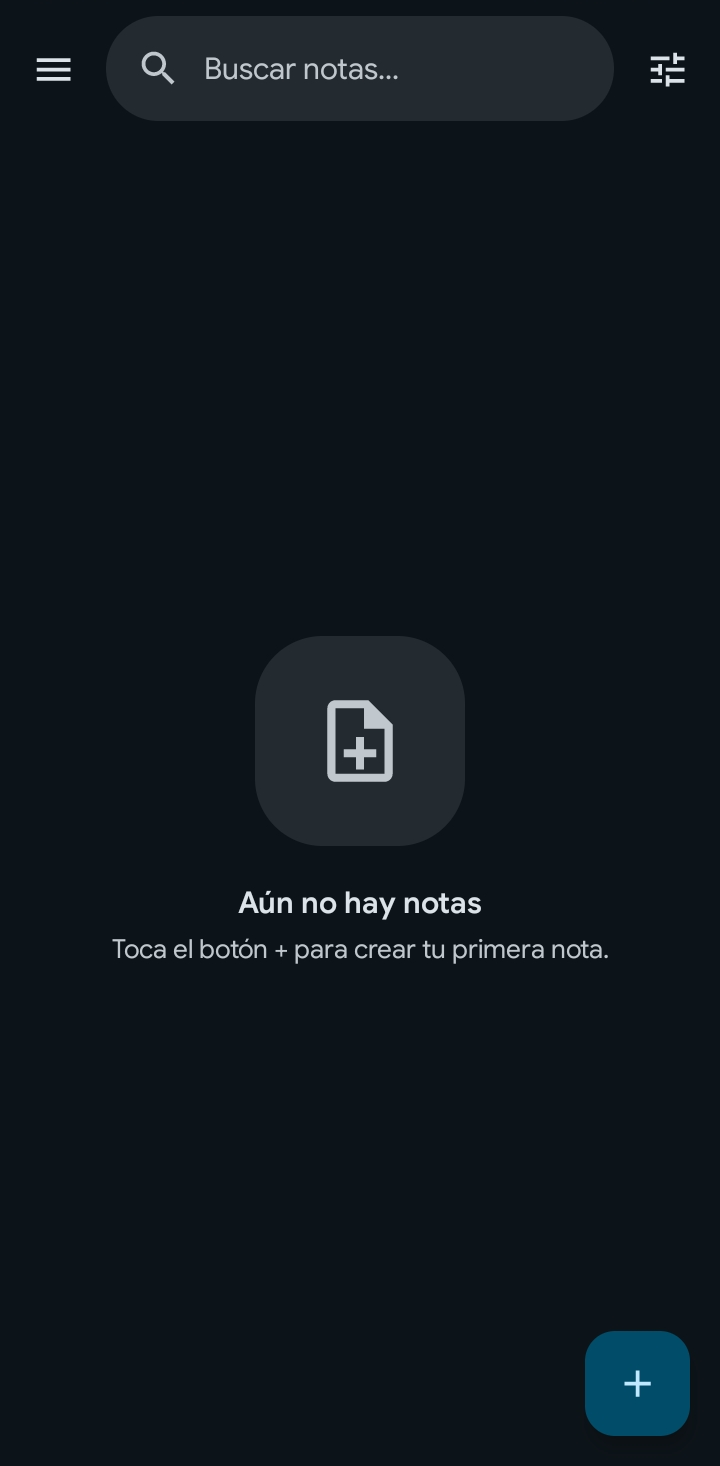
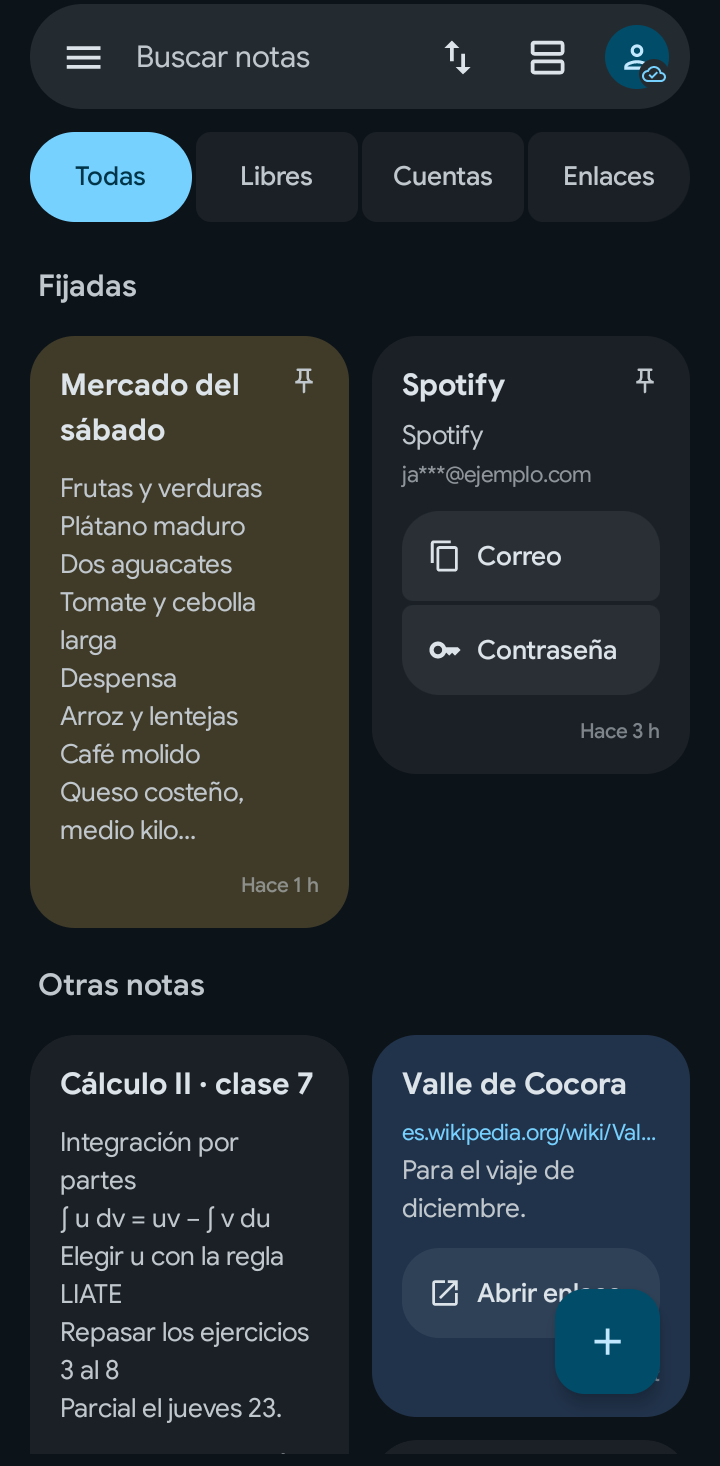
docs: add v2.0.0 changelog

diff --git a/CHANGELOG.md b/CHANGELOG.md
@@ -5,6 +5,57 @@ Todas las novedades importantes de este proyecto se documentan en este archivo.
 El formato se basa en [Keep a Changelog](https://keepachangelog.com/es-ES/1.1.0/),
 y este proyecto sigue el [Versionado Semántico](https://semver.org/lang/es/).
 
+## [2.0.0] - 2026-10-10
+
+### Añadido
+
+- **Sincronización con Google Drive entre teléfonos**: «Sincronizar ahora» trae lo que subió otro teléfono y sube tus cambios. De cada nota se queda la versión más reciente, así que dos teléfonos ya no se borran lo que subió el otro.
+- **La sincronización automática sigue funcionando con la app cerrada**: trae lo nuevo al abrir Notar y sube tus cambios unos segundos después de cada uno. Sin conexión, espera a que vuelva. La clave de cifrado se pide una sola vez.
+- **Pantalla Copia cifrada**, con la sincronización, la clave y la cuenta en un solo sitio. Ajustes muestra solo el estado de la copia.
+- **«¿Olvidaste tu clave?»**: elimina la copia que ya nadie puede abrir y te deja empezar con una clave nueva.
+- Las notas ocultas y el orden personalizado se guardan en la copia y se recuperan al entrar en otro teléfono.
+- «Seleccionar todo» en el modo selección.
+- Sin notas, Inicio ofrece crear la primera de cada tipo.
+
+### Cambiado
+
+- **Cerrar sesión funciona como en Keep**: las notas que ya están en tu copia de Drive se quitan del teléfono y vuelven al entrar con la misma cuenta y tu clave. Las que no se han subido se quedan.
+- **Rediseño con Material 3 Expressive** de todas las pantallas:
+  - **Inicio:** una sola barra con búsqueda, orden, vista y cuenta, filtros por tipo en botones y tarjetas rellenas.
+  - **Notas:** las de cuenta y enlace se editan en su sitio, con un botón de copiar por dato.
+  - **Modo selección:** sus acciones van en una barra flotante abajo.
+  - **Ayuda:** las preguntas se abren en su sitio.
+- **Cambiar la clave pide primero la actual** y vuelve a cifrar la copia con la nueva. Antes la copia anterior seguía con la clave vieja.
+- La clave de cifrado queda guardada en el teléfono sin pedir la huella en cada copia, para que la sincronización funcione con la app cerrada. Si ya tenías una guardada, se pide la huella una última vez.
+- Mostrar la contraseña de una cuenta pide la huella cuando «Huella para cuentas» está activado.
+- Al cambiar de pantalla, la nueva entra deslizándose, sin el destello que dejaba el fundido.
+- Los diálogos dicen en una o dos frases qué va a pasar.
+- Actualizaciones busca una versión nueva al abrirse.
+
+### Eliminado
+
+- «Restaurar desde Drive»: sincronizar ya trae las notas de la copia.
+
+### Corregido
+
+- Las notas borradas para siempre ya no vuelven a la papelera al restaurar o sincronizar una copia anterior.
+- **Vistas previas de enlaces más fiables**:
+  - Leen bien los títulos con apóstrofos y los acentos de las páginas con codificaciones antiguas.
+  - Funcionan con los enlaces `http` que redirigen a `https`.
+  - Muestran el título de los videos de YouTube.
+  - Un fallo de red ya no esconde la vista previa durante horas.
+- La búsqueda muestra la coincidencia en el fragmento de cada resultado. En notas escritas como lista, el fragmento enseñaba las líneas de antes.
+- El teclado se cierra al salir de una nota libre.
+- Al abrir Ajustes o Copia cifrada ya no aparece un instante «Iniciar sesión con Google», ni Archivo sale vacío antes de cargar.
+
+### Seguridad
+
+- **La copia solo se sube a la cuenta con la que iniciaste sesión.** Con varias cuentas de Google en el teléfono, Notar podía usar el permiso de Drive de otra.
+- Una copia que tu clave no abre nunca se sobrescribe, y una clave equivocada no se guarda.
+- Cambiar la clave y eliminar la copia piden la clave actual: tener el teléfono desbloqueado no basta.
+- Al cerrar sesión no queda rastro en el teléfono de las notas quitadas.
+- Una copia manipulada en Drive ya no puede cerrar la app.
+
 ## [1.2.1] - 2026-07-25
 
 ### Corregido

diff --git a/README.md b/README.md
@@ -2,9 +2,19 @@
 
 Aplicación de notas para Android, minimalista y centrada en la privacidad. Organiza tus ideas con notas de texto enriquecido, guarda credenciales y enlaces, y sincroniza todo de forma cifrada con tu propia cuenta de Google Drive.
 
-## Captura
+## Capturas de pantalla
 
-![Home](screenshots/home.png)
+<p align="center">
+  <img src="screenshots/home.png" width="250" alt="Inicio"/>
+  <img src="screenshots/settings.png" width="250" alt="Ajustes"/>
+  <img src="screenshots/backup.png" width="250" alt="Copia cifrada"/>
+</p>
+
+| Inicio | Ajustes | Copia cifrada |
+|:------:|:-------:|:-------------:|
+| Fijadas arriba, filtros por tipo y vista en dos columnas | La cuenta y su copia arriba, tema y seguridad | Sincronización con Drive, cifrada con tu clave |
+
+Las capturas usan datos de demostración.
 
 ## Características
 
@@ -18,9 +28,9 @@ Aplicación de notas para Android, minimalista y centrada en la privacidad. Orga
 - **Selección múltiple**: selecciona varias notas en Inicio, Archivo o Papelera para acciones en lote (fijar, archivar, restaurar, eliminar).
 - **Búsqueda con resaltado**: encuentra notas al instante, resalta coincidencias y permite saltar entre ellas dentro de cada nota.
 - **Vista de columnas**: alterna entre una y dos columnas desde la barra de búsqueda.
-- **Sincronización cifrada**: respalda y restaura tus notas con Google Drive, protegidas con cifrado de extremo a extremo mediante una frase de contraseña.
-- **Copia automática a Drive**: respaldo opcional con aviso accionable de cambios sin subir y botón de cuenta con estado de sincronización.
-- **Seguridad**: autenticación biométrica para copiar credenciales y bloqueo de capturas de pantalla opcional.
+- **Sincronización cifrada**: sincroniza tus notas entre teléfonos con tu Google Drive, cifradas de extremo a extremo con una clave que solo tú conoces. Al cerrar sesión, las notas sincronizadas se quitan del teléfono y vuelven al entrar, como en Keep.
+- **Sincronización automática**: opcional; trae lo nuevo al abrir la app y sube cada cambio, también con la app cerrada. El botón de cuenta muestra si todo está al día.
+- **Seguridad**: huella para mostrar o copiar credenciales y bloqueo de capturas de pantalla opcionales.
 - **Material 3 Expressive**: interfaz moderna con color dinámico (Material You) y temas claro, oscuro y automático.
 
 ## Requisitos
@@ -39,6 +49,7 @@ Descarga el APK desde la sección de [Releases](../../releases) e instálalo en 
 - Hilt (Inyección de dependencias)
 - Room (Base de datos local)
 - Jetpack DataStore
+- WorkManager
 - Google Credential Manager
 - Google Drive API
 - AndroidX Biometric
